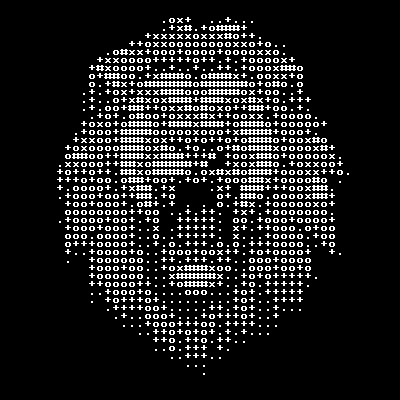
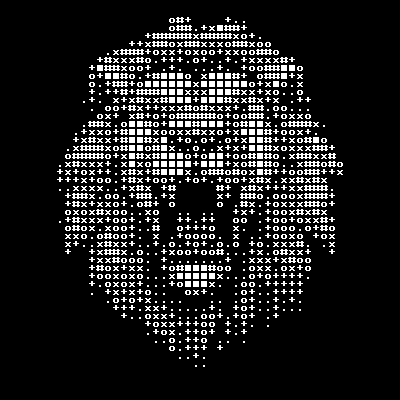
optimised method by instead converting image to grayscale, making reading brightness much more efficient

diff --git a/Img2ASCII.py b/Img2ASCII.py
@@ -1,4 +1,4 @@
-from PIL import Image, ImageEnhance
+from PIL import Image, ImageEnhance, ImageOps
 
 # get reference to desired image
 imgRaw = Image.open("testimages/lion.png")
@@ -30,13 +30,13 @@ else:
 
 # crop the image, and convert its type to RGBA if not already
 img = imgRaw.crop((wCropL, hCropT, imgRaw.size[0] - wCropR, imgRaw.size[1] - hCropB))
-img = img.convert("RGBA")
+img = ImageOps.grayscale(img)
 
-img = ImageEnhance.Contrast(img).enhance(3.0)
+# enhance sharpness to improve visual clarity of output
 img = ImageEnhance.Sharpness(img).enhance(2.0)
 
 # create new blank image of the exact same image
-img_ASCII = Image.new("RGB", img.size)
+img_ASCII = Image.new("L", img.size, 0)
 
 # Checks if entire ASCII character slot (8x8 square of pixels) is transparent
 def CheckTransparent(x: int, y: int):
@@ -52,104 +52,101 @@ def GetBrightness(x: int, y: int):
     sum = 0    
     for w in range(8):
         for h in range(8):
+            brightness = img.getpixel((x+w,y+h))
+            sum += brightness
 
-            r = img.getpixel((x+w,y+h))[0]
-            g = img.getpixel((x+w,y+h))[1]
-            b = img.getpixel((x+w,y+h))[2]
-            sum += (r+g+b)
-
-    return int(sum / 192)
+    return int(sum / 64)
 
 def DrawDot(x: int, y: int):
-    img_ASCII.putpixel((x+3,y+6), (255, 255, 255))
-    img_ASCII.putpixel((x+4,y+6), (255, 255, 255))
-    img_ASCII.putpixel((x+3,y+5), (255, 255, 255))
-    img_ASCII.putpixel((x+4,y+5), (255, 255, 255))
+    img_ASCII.putpixel((x+3,y+6), (255))
+    img_ASCII.putpixel((x+4,y+6), (255))
+    img_ASCII.putpixel((x+3,y+5), (255))
+    img_ASCII.putpixel((x+4,y+5), (255))
 
 def DrawPlus(x: int, y: int):
     for i in range(6):
-        img_ASCII.putpixel((x+1+i,y+3), (255, 255, 255))
+        img_ASCII.putpixel((x+1+i,y+3), (255))
 
     for i in range(5):    
-        img_ASCII.putpixel((x+3,y+1+i), (255, 255, 255))
-        img_ASCII.putpixel((x+4,y+1+i), (255, 255, 255))
+        img_ASCII.putpixel((x+3,y+1+i), (255))
+        img_ASCII.putpixel((x+4,y+1+i), (255))
 
 def DrawHash(x: int, y: int):
     for i in range(8):
-        img_ASCII.putpixel((x+i,y+2), (255, 255, 255))
-        img_ASCII.putpixel((x+i,y+5), (255, 255, 255))
+        img_ASCII.putpixel((x+i,y+2), (255))
+        img_ASCII.putpixel((x+i,y+5), (255))
     
     for i in range(6):
-        img_ASCII.putpixel((x+1,y+1+i), (255, 255, 255))
-        img_ASCII.putpixel((x+2,y+1+i), (255, 255, 255))
-        img_ASCII.putpixel((x+5,y+1+i), (255, 255, 255))
-        img_ASCII.putpixel((x+6,y+1+i), (255, 255, 255))
+        img_ASCII.putpixel((x+1,y+1+i), (255))
+        img_ASCII.putpixel((x+2,y+1+i), (255))
+        img_ASCII.putpixel((x+5,y+1+i), (255))
+        img_ASCII.putpixel((x+6,y+1+i), (255))
 
 def DrawO(x: int, y: int):
     for i in range(4):
-        img_ASCII.putpixel((x+2+i,y+2), (255, 255, 255))
-        img_ASCII.putpixel((x+2+i,y+6), (255, 255, 255))
+        img_ASCII.putpixel((x+2+i,y+2), (255))
+        img_ASCII.putpixel((x+2+i,y+6), (255))
 
     for i in range(2):
-        img_ASCII.putpixel((x+1+i,y+3), (255, 255, 255))
-        img_ASCII.putpixel((x+5+i,y+3), (255, 255, 255))
-        img_ASCII.putpixel((x+1+i,y+4), (255, 255, 255))
-        img_ASCII.putpixel((x+5+i,y+4), (255, 255, 255))
-        img_ASCII.putpixel((x+1+i,y+5), (255, 255, 255))
-        img_ASCII.putpixel((x+5+i,y+5), (255, 255, 255))
+        img_ASCII.putpixel((x+1+i,y+3), (255))
+        img_ASCII.putpixel((x+5+i,y+3), (255))
+        img_ASCII.putpixel((x+1+i,y+4), (255))
+        img_ASCII.putpixel((x+5+i,y+4), (255))
+        img_ASCII.putpixel((x+1+i,y+5), (255))
+        img_ASCII.putpixel((x+5+i,y+5), (255))
 
 def DrawAsterisk(x: int, y: int):
     for i in range(8):
-        img_ASCII.putpixel((x+i,y+3), (255, 255, 255))
+        img_ASCII.putpixel((x+i,y+3), (255))
     
     for i in range(4):
-        img_ASCII.putpixel((x+2+i,y+2), (255, 255, 255))
-        img_ASCII.putpixel((x+2+i,y+4), (255, 255, 255))
+        img_ASCII.putpixel((x+2+i,y+2), (255))
+        img_ASCII.putpixel((x+2+i,y+4), (255))
     
-    img_ASCII.putpixel((x+1,y+1), (255, 255, 255))
-    img_ASCII.putpixel((x+2,y+1), (255, 255, 255))
-    img_ASCII.putpixel((x+5,y+1), (255, 255, 255))
-    img_ASCII.putpixel((x+6,y+1), (255, 255, 255))
+    img_ASCII.putpixel((x+1,y+1), (255))
+    img_ASCII.putpixel((x+2,y+1), (255))
+    img_ASCII.putpixel((x+5,y+1), (255))
+    img_ASCII.putpixel((x+6,y+1), (255))
 
-    img_ASCII.putpixel((x+1,y+5), (255, 255, 255))
-    img_ASCII.putpixel((x+2,y+5), (255, 255, 255))
-    img_ASCII.putpixel((x+5,y+5), (255, 255, 255))
-    img_ASCII.putpixel((x+6,y+5), (255, 255, 255))
+    img_ASCII.putpixel((x+1,y+5), (255))
+    img_ASCII.putpixel((x+2,y+5), (255))
+    img_ASCII.putpixel((x+5,y+5), (255))
+    img_ASCII.putpixel((x+6,y+5), (255))
 
 def DrawAnd(x: int, y: int):
     for i in range(4):
-        img_ASCII.putpixel((x+4+i,y+4), (255, 255, 255))
+        img_ASCII.putpixel((x+4+i,y+4), (255))
     
     for i in range(3):
-        img_ASCII.putpixel((x+3+i,y), (255, 255, 255))
-        img_ASCII.putpixel((x+3+i,y+2), (255, 255, 255))
-        img_ASCII.putpixel((x+2+i,y+3), (255, 255, 255))
-        img_ASCII.putpixel((x+2+i,y+6), (255, 255, 255))
+        img_ASCII.putpixel((x+3+i,y), (255))
+        img_ASCII.putpixel((x+3+i,y+2), (255))
+        img_ASCII.putpixel((x+2+i,y+3), (255))
+        img_ASCII.putpixel((x+2+i,y+6), (255))
     
     for i in range(2):
-        img_ASCII.putpixel((x+2+i,y+1), (255, 255, 255))
-        img_ASCII.putpixel((x+5+i,y+1), (255, 255, 255))
-        img_ASCII.putpixel((x+1+i,y+4), (255, 255, 255))
-        img_ASCII.putpixel((x+1+i,y+5), (255, 255, 255))
-        img_ASCII.putpixel((x+5+i,y+5), (255, 255, 255))
-        img_ASCII.putpixel((x+6+i,y+6), (255, 255, 255))
+        img_ASCII.putpixel((x+2+i,y+1), (255))
+        img_ASCII.putpixel((x+5+i,y+1), (255))
+        img_ASCII.putpixel((x+1+i,y+4), (255))
+        img_ASCII.putpixel((x+1+i,y+5), (255))
+        img_ASCII.putpixel((x+5+i,y+5), (255))
+        img_ASCII.putpixel((x+6+i,y+6), (255))
 
 def DrawX(x: int, y: int):
     for i in range(4):
-        img_ASCII.putpixel((x+2+i,y+3), (255, 255, 255))
-        img_ASCII.putpixel((x+2+i,y+5), (255, 255, 255))
+        img_ASCII.putpixel((x+2+i,y+3), (255))
+        img_ASCII.putpixel((x+2+i,y+5), (255))
     
     for i in range(2):
-        img_ASCII.putpixel((x+1+i,y+2), (255, 255, 255))
-        img_ASCII.putpixel((x+5+i,y+2), (255, 255, 255))
-        img_ASCII.putpixel((x+1+i,y+6), (255, 255, 255))
-        img_ASCII.putpixel((x+5+i,y+6), (255, 255, 255))
-        img_ASCII.putpixel((x+3+i,y+4), (255, 255, 255))
+        img_ASCII.putpixel((x+1+i,y+2), (255))
+        img_ASCII.putpixel((x+5+i,y+2), (255))
+        img_ASCII.putpixel((x+1+i,y+6), (255))
+        img_ASCII.putpixel((x+5+i,y+6), (255))
+        img_ASCII.putpixel((x+3+i,y+4), (255))
     
 def DrawSquare(x: int, y: int):
-    for i in range(8):
-        for n in range(8):
-            img_ASCII.putpixel((x+n,y+i), (255, 255, 255))
+    for i in range(6):
+        for n in range(6):
+            img_ASCII.putpixel((x+1+n,y+1+i), (255))
 
 # get number and location (top left coordinates) of ASCII character slots
 wFactor = int(img.size[0] / 8)
@@ -169,28 +166,31 @@ for i in range(hFactor):
 for w in range(len(xVals)):
     for h in range(len(yVals)):
         # if 8x8 slot is transparent then leave it blank
-        if CheckTransparent(xVals[w], yVals[h]) == False:
+        #if CheckTransparent(xVals[w], yVals[h]) == False:
             
             # calculate brightness of 8x8 slot
             brightness = GetBrightness(xVals[w], yVals[h])
 
-            if 0 <= brightness <= 5:
+            if 0 <= brightness <= 36:
                 exit
-            elif 6 <= brightness <= 59:
+            elif 37 <= brightness <= 72:
                 DrawDot(xVals[w], yVals[h])
-            elif 60 <= brightness <= 129:
+            elif 73 <= brightness <= 108:
                 DrawPlus(xVals[w], yVals[h])
-            elif 130 <= brightness <= 199:
+            elif 109 <= brightness <= 144:
                 DrawO(xVals[w], yVals[h])
-            elif 200 <= brightness <= 239:
+            elif 145 <= brightness <= 180:
                 DrawX(xVals[w], yVals[h])
-            elif 240 <= brightness <= 255:
+            elif 181 <= brightness <= 216:
                 DrawHash(xVals[w], yVals[h])
+            elif 217 <= brightness <= 255:
+                DrawSquare(xVals[w], yVals[h])
             
 # display finished ASCII image
+img.show()
 img_ASCII.show()
 
-#img_ASCII.save("ascii_lion.png")
+img_ASCII.save("ascii_lion.png")
 
 
 
